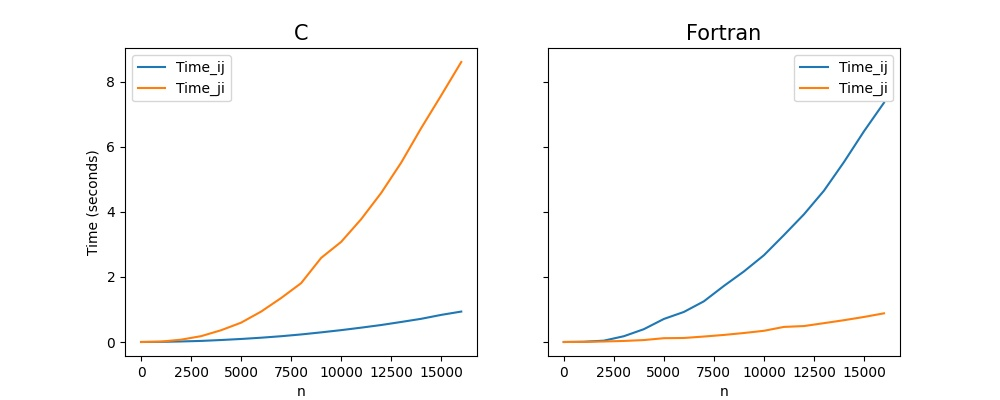
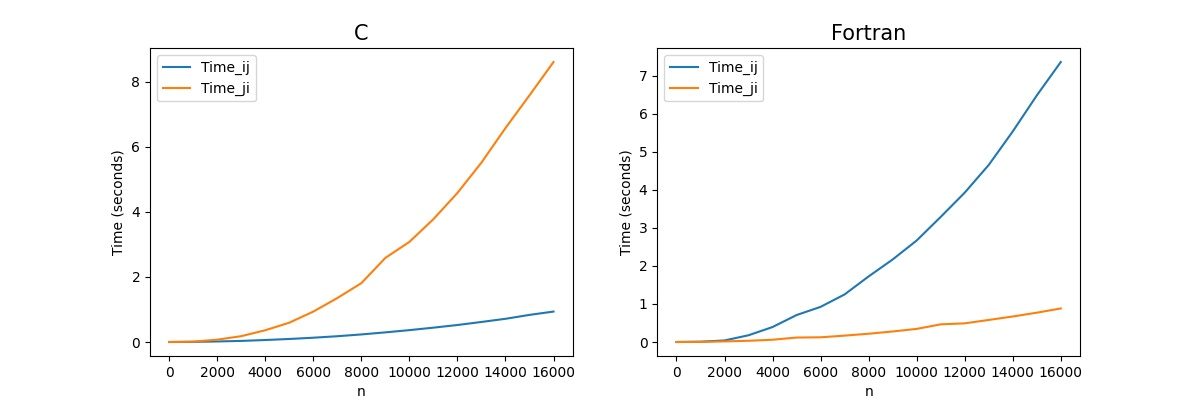
improving graph

diff --git a/exercise01/make_graph.py b/exercise01/make_graph.py
@@ -4,13 +4,13 @@ import matplotlib.pyplot as plt
 cDF = pd.read_csv('c_times.csv')
 fDF = pd.read_csv('fortran_times.csv')
 
-fig, axs = plt.subplots(1,2,figsize=(10,4), sharey=True)
+fig, axs = plt.subplots(1,2,figsize=(12,4), sharey=False)
 
 cDF.plot.line(x = 'n', y = 'Time_ij', ax = axs[0], ylabel='Time (seconds)')
 cDF.plot.line(x = 'n', y = 'Time_ji', ax = axs[0])
 axs[0].set_title('C',fontsize=15)
 
-fDF.plot.line(x = 'n', y = 'Time_ij', ax = axs[1])
+fDF.plot.line(x = 'n', y = 'Time_ij', ax = axs[1], ylabel='Time (seconds)')
 fDF.plot.line(x = 'n', y = 'Time_ji', ax = axs[1])
 axs[1].set_title('Fortran',fontsize=15)
 
